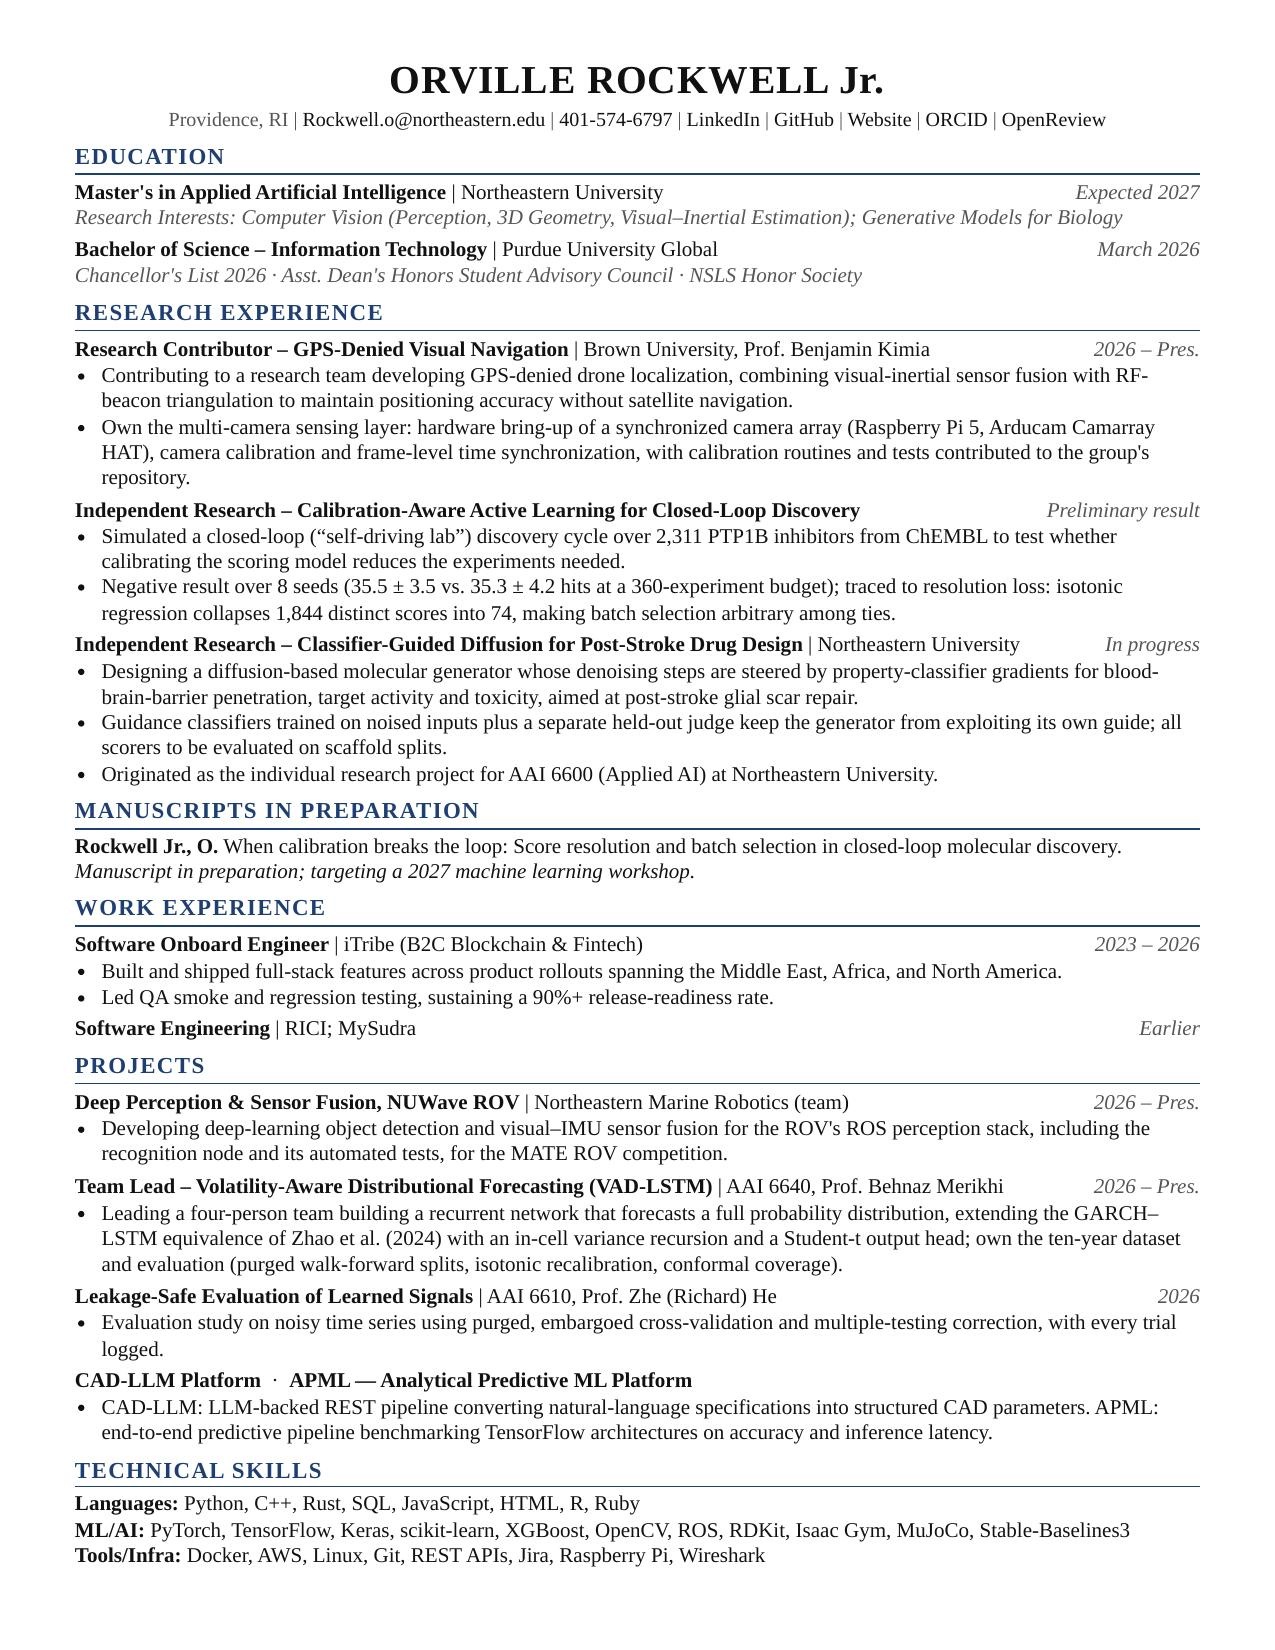
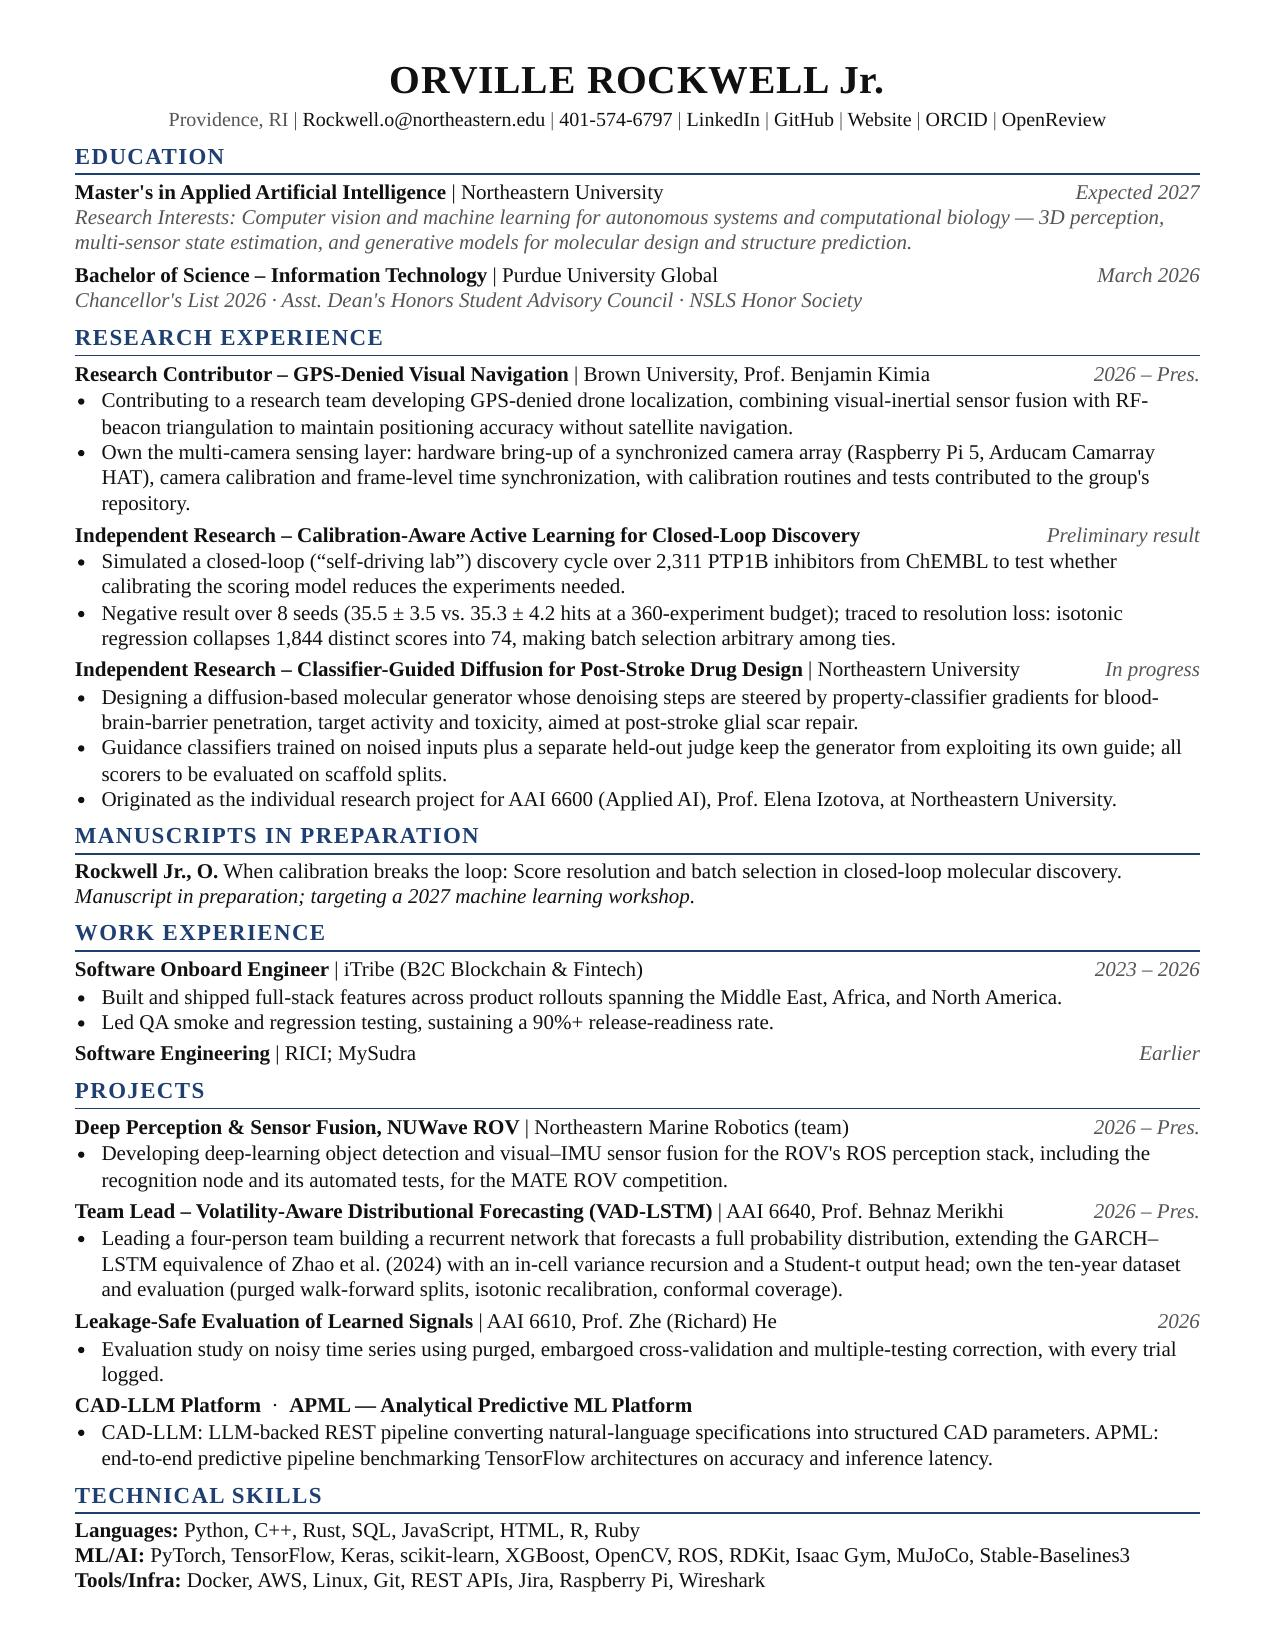
Perception card: shorter, CV-meets-ML, drop calibration tag; add Prof. Elena Izotova (AAI 6600); align CV research interests with site
Claude-Session: https://claude.ai/code/session_01LzMNsC2QWoDPGTEoMeo6Mp

Changed region(s): [[0.0612, 0.1236, 0.9482, 0.9582], [0.8565, 0.5564, 0.9482, 0.5873]]

diff --git a/index.html b/index.html
@@ -562,7 +562,7 @@ footer::before{content:"";position:absolute;left:0;right:0;top:0;height:4px;back
       <h2>Research areas</h2>
       <p class="lead">Making visual perception reliable enough to act on.</p>
       <ul class="areas">
-        <li class="area" style="--ac:var(--cv)"><span class="ic"><svg viewBox="0 0 24 24" aria-hidden="true"><path d="M2 12s3.6-6.5 10-6.5S22 12 22 12s-3.6 6.5-10 6.5S2 12 2 12z"/><circle cx="12" cy="12" r="3.2"/></svg></span><h3>Perception and 3D vision</h3><p>Recovering 3D structure and semantics from imperfect imagery, where classical multi-view geometry meets deep networks for detection, depth and representation that stay accurate under blur, low texture and domain shift.</p><p class="tags"><span>Multi-view geometry</span><span>Calibration</span><span>Deep detection</span><span>Representation learning</span></p></li>
+        <li class="area" style="--ac:var(--cv)"><span class="ic"><svg viewBox="0 0 24 24" aria-hidden="true"><path d="M2 12s3.6-6.5 10-6.5S22 12 22 12s-3.6 6.5-10 6.5S2 12 2 12z"/><circle cx="12" cy="12" r="3.2"/></svg></span><h3>Perception and 3D vision</h3><p>Recovering 3D structure and meaning from imperfect imagery, where classical computer vision meets machine learning to stay robust under blur, low texture and domain shift.</p><p class="tags"><span>Multi-view geometry</span><span>Deep detection</span><span>Representation learning</span></p></li>
         <li class="area" style="--ac:var(--auto)"><span class="ic"><svg viewBox="0 0 24 24" aria-hidden="true"><circle cx="5" cy="6" r="2.6"/><circle cx="19" cy="6" r="2.6"/><circle cx="5" cy="18" r="2.6"/><circle cx="19" cy="18" r="2.6"/><path d="M7 8l3 3m4 0l3-3M7 16l3-3m4 0l3 3"/><rect x="10" y="10" width="4" height="4" rx="1"/></svg></span><h3>State estimation for autonomy</h3><p>Keeping drones and underwater robots localized without GPS. Learned fusion of camera, LiDAR and IMU so pose holds when any one sensor drops out.</p><p class="tags"><span>Multi-sensor fusion</span><span>LiDAR &amp; IMU</span><span>GPS-denied</span><span>Embedded</span></p></li>
         <li class="area" style="--ac:var(--bio)"><span class="ic"><svg viewBox="0 0 24 24" aria-hidden="true"><path d="M12 3l7 4v8l-7 4-7-4V7z"/><circle cx="12" cy="3" r="1.6"/><circle cx="19" cy="7" r="1.6"/><circle cx="19" cy="15" r="1.6"/><circle cx="12" cy="19" r="1.6"/><circle cx="5" cy="15" r="1.6"/><circle cx="5" cy="7" r="1.6"/><path d="M19 15l2.5 2"/></svg></span><h3>Generative vision for biology</h3><p>Diffusion models that design new drug molecules under learned constraints, and deep networks that predict biomolecular structure.</p><p class="tags"><span>Generative drug design</span><span>Diffusion</span><span>Structure prediction</span></p></li>
       </ul>
@@ -732,7 +732,7 @@ footer::before{content:"";position:absolute;left:0;right:0;top:0;height:4px;back
           </div>
           <div>
             <h3><span class="mk" style="background:var(--bio)" aria-hidden="true"></span>Classifier-Guided Diffusion for Post-Stroke Drug Design</h3>
-            <p class="where"><b>Independent research</b>, Northeastern University<br>Began as a project in Applied AI (AAI 6600), 2026 to present</p>
+            <p class="where"><b>Independent research</b>, Northeastern University<br>Began as a project in Applied AI (AAI 6600, Prof. Elena Izotova), 2026 to present</p>
             <span class="status">In progress</span>
             <p class="sum">No effective treatment exists for the glial scar that blocks axon regrowth after stroke. This project adapts the diffusion-and-classifier machinery of computer vision to drug design: a diffusion model generates candidate small molecules, while machine-learned property classifiers predict brain penetration, target activity and toxicity and steer every denoising step.</p>
             <p class="key"><b>Design.</b> Guidance classifiers are trained on noised inputs, and a separate held-out classifier judges the final candidates, so the generator cannot succeed by exploiting its own guide. Every scorer will be evaluated on scaffold splits, so reported performance reflects new chemistry rather than memorized analogs. Fully in silico; no results are claimed yet.</p>

diff --git a/_cv/cv.html b/_cv/cv.html
@@ -26,7 +26,7 @@ li{margin:0}
 
 <h2>Education</h2>
 <div class="row"><span><b>Master's in Applied Artificial Intelligence</b> | Northeastern University</span><span class="r">Expected 2027</span></div>
-<div class="sub">Research Interests: Computer Vision (Perception, 3D Geometry, Visual–Inertial Estimation); Generative Models for Biology</div>
+<div class="sub">Research Interests: Computer vision and machine learning for autonomous systems and computational biology — 3D perception, multi-sensor state estimation, and generative models for molecular design and structure prediction.</div>
 <div class="row"><span><b>Bachelor of Science – Information Technology</b> | Purdue University Global</span><span class="r">March 2026</span></div>
 <div class="sub">Chancellor's List 2026 · Asst. Dean's Honors Student Advisory Council · NSLS Honor Society</div>
 
@@ -45,7 +45,7 @@ li{margin:0}
 <ul>
 <li>Designing a diffusion-based molecular generator whose denoising steps are steered by property-classifier gradients for blood-brain-barrier penetration, target activity and toxicity, aimed at post-stroke glial scar repair.</li>
 <li>Guidance classifiers trained on noised inputs plus a separate held-out judge keep the generator from exploiting its own guide; all scorers to be evaluated on scaffold splits.</li>
-<li>Originated as the individual research project for AAI 6600 (Applied AI) at Northeastern University.</li>
+<li>Originated as the individual research project for AAI 6600 (Applied AI), Prof. Elena Izotova, at Northeastern University.</li>
 </ul>
 
 <h2>Manuscripts in Preparation</h2>
